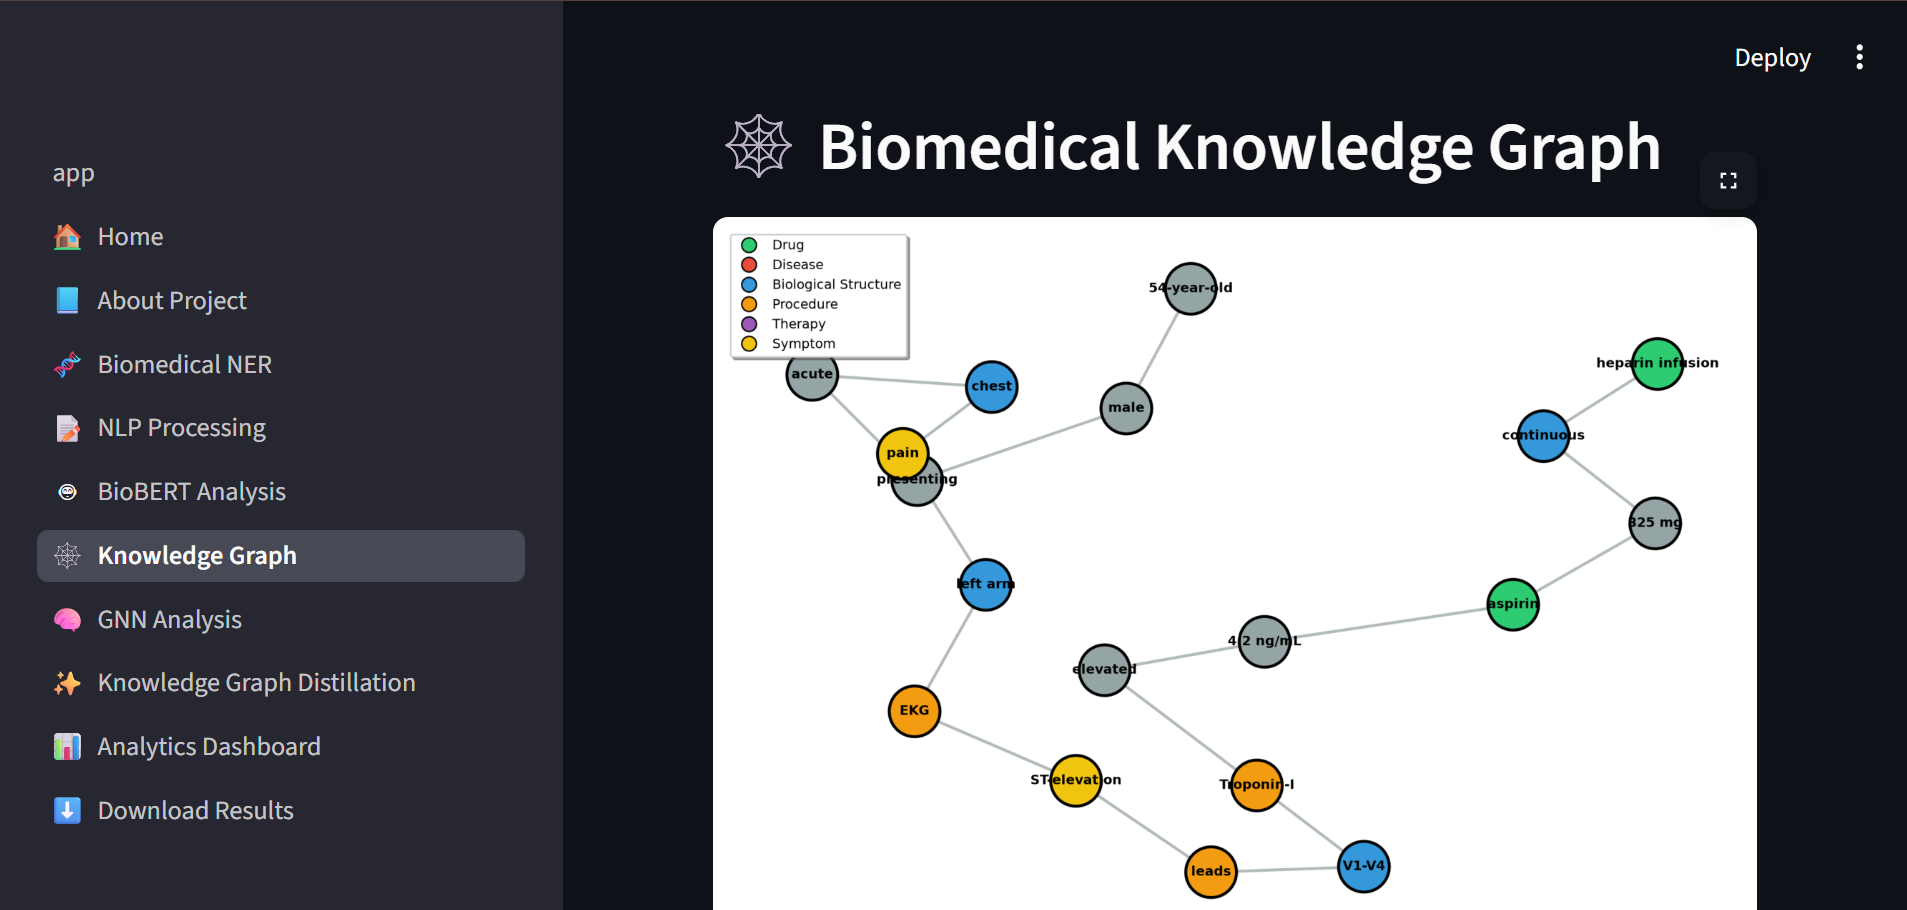
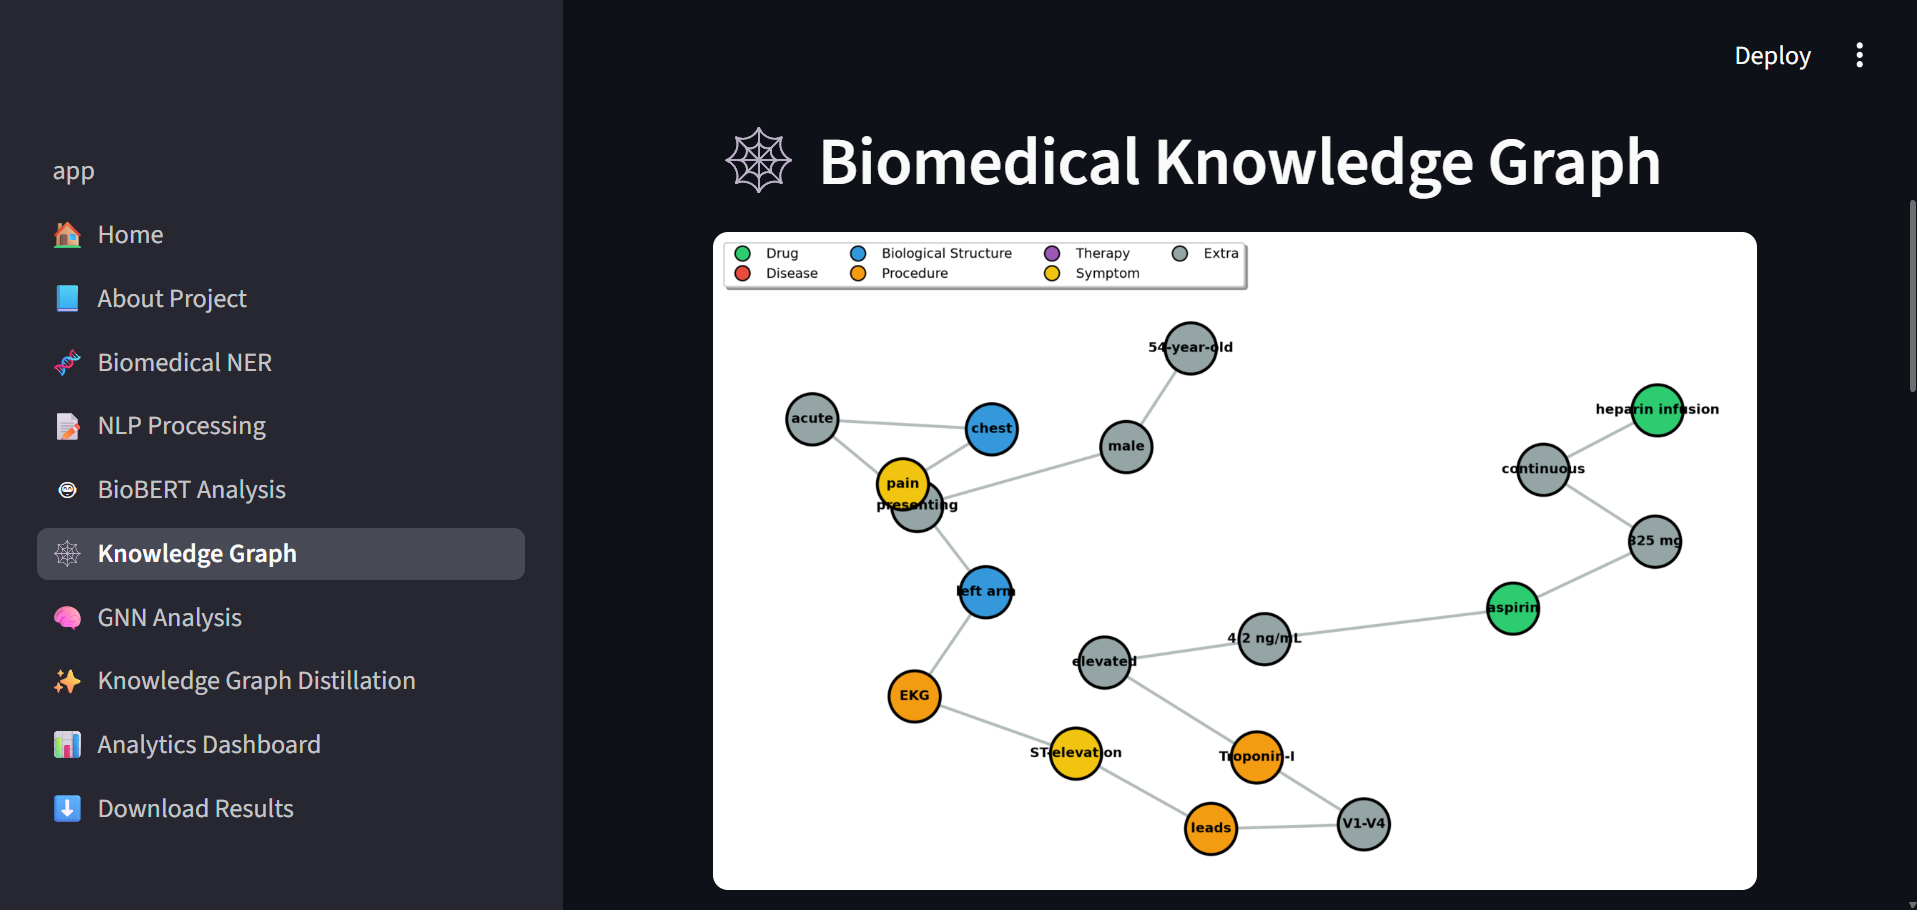
Fix knowledge graph entity types and visualization

diff --git a/pages/08_✨_Knowledge_Graph_Distillation.py b/pages/08_✨_Knowledge_Graph_Distillation.py
@@ -134,6 +134,15 @@ st.divider()
 # Graph Color Mapping
 # --------------------------------------------------------
 
+STANDARD_ENTITY_TYPES = {
+    "DRUG",
+    "DISEASE",
+    "BIOLOGICAL_STRUCTURE",
+    "PROCEDURE",
+    "THERAPY",
+    "SYMPTOM"
+}
+
 COLOR_MAP = {
 
     "DRUG": "#2ECC71",
@@ -141,17 +150,26 @@ COLOR_MAP = {
     "BIOLOGICAL_STRUCTURE": "#3498DB",
     "PROCEDURE": "#F39C12",
     "THERAPY": "#9B59B6",
-    "SYMPTOM": "#F1C40F"
+    "SYMPTOM": "#F1C40F",
+    "EXTRA": "#95A5A6"
 
 }
 
-DEFAULT_COLOR = "#95A5A6"
+
+def get_display_entity_type(entity_type):
+    """
+    Map non-standard entity types to EXTRA for graph visualization.
+    """
+    if entity_type in STANDARD_ENTITY_TYPES:
+        return entity_type
+
+    return "EXTRA"
 
 # --------------------------------------------------------
 # Shared Graph Drawing Function
 # --------------------------------------------------------
 
-def draw_graph(graph, title):
+def draw_graph(graph):
 
     fig, ax = plt.subplots(figsize=(8.5, 6.5))
 
@@ -171,11 +189,10 @@ def draw_graph(graph, title):
             ""
         )
 
+        display_type = get_display_entity_type(entity_type)
+
         node_colors.append(
-            COLOR_MAP.get(
-                entity_type,
-                DEFAULT_COLOR
-            )
+            COLOR_MAP[display_type]
         )
 
     nx.draw_networkx_nodes(
@@ -241,6 +258,12 @@ def draw_graph(graph, title):
                label='Symptom',
                markerfacecolor=COLOR_MAP["SYMPTOM"],
                markeredgecolor='black',
+               markersize=8),
+
+        Line2D([0],[0], marker='o', color='w',
+               label='Extra',
+               markerfacecolor=COLOR_MAP["EXTRA"],
+               markeredgecolor='black',
                markersize=8)
 
     ]
@@ -248,22 +271,23 @@ def draw_graph(graph, title):
     ax.legend(
         handles=legend_elements,
         fontsize=8,
-        loc="upper left",
+        loc="lower left",
+        bbox_to_anchor=(0, 1.02),
         frameon=True,
         fancybox=True,
-        shadow=True
-    )
-
-    ax.set_title(
-        title,
-        fontsize=15,
-        fontweight="bold",
-        pad=12
+        shadow=True,
+        ncol=4,
+        borderaxespad=0
     )
 
     ax.set_axis_off()
 
-    plt.tight_layout()
+    plt.subplots_adjust(
+        top=0.80,
+        left=0.02,
+        right=0.98,
+        bottom=0.02
+    )
 
     return fig
 
@@ -280,10 +304,7 @@ with left:
     st.subheader("📘 Original Knowledge Graph")
 
     st.pyplot(
-        draw_graph(
-            graph,
-            "Original Graph"
-        )
+        draw_graph(graph)
     )
 
     col1, col2 = st.columns(2)
@@ -300,10 +321,7 @@ with right:
     st.subheader("✨ Distilled Knowledge Graph")
 
     st.pyplot(
-        draw_graph(
-            distilled_graph,
-            "Distilled Graph"
-        )
+        draw_graph(distilled_graph)
     )
 
     col3, col4 = st.columns(2)
@@ -358,9 +376,8 @@ for node in distilled_graph.nodes(data=True):
 
         "Biomedical Entity": node[0],
 
-        "Entity Type": node[1].get(
-            "entity_type",
-            "-"
+        "Entity Type": get_display_entity_type(
+            node[1].get("entity_type", "")
         ),
 
         "Confidence": node[1].get(
@@ -444,9 +461,8 @@ for node, attrs in graph.nodes(data=True):
 
     if node == top_entity:
 
-        entity_type = attrs.get(
-            "entity_type",
-            "-"
+        entity_type = get_display_entity_type(
+            attrs.get("entity_type", "")
         )
 
         confidence = attrs.get(

diff --git a/pages/06_🕸_Knowledge_Graph.py b/pages/06_🕸_Knowledge_Graph.py
@@ -44,6 +44,15 @@ graph = build_graph(entities)
 # Color Mapping
 # -----------------------------------------
 
+STANDARD_ENTITY_TYPES = {
+    "DRUG",
+    "DISEASE",
+    "BIOLOGICAL_STRUCTURE",
+    "PROCEDURE",
+    "THERAPY",
+    "SYMPTOM"
+}
+
 COLOR_MAP = {
 
     "DRUG": "#2ECC71",
@@ -51,12 +60,12 @@ COLOR_MAP = {
     "BIOLOGICAL_STRUCTURE": "#3498DB",
     "PROCEDURE": "#F39C12",
     "THERAPY": "#9B59B6",
-    "SYMPTOM": "#F1C40F"
+    "SYMPTOM": "#F1C40F",
+    "EXTRA": "#95A5A6"
 
 }
 
-DEFAULT_COLOR = "#95A5A6"
-
+display_entity_types = {}
 node_colors = []
 
 for node in graph.nodes():
@@ -66,12 +75,13 @@ for node in graph.nodes():
         ""
     )
 
-    node_colors.append(
-        COLOR_MAP.get(
-            entity_type,
-            DEFAULT_COLOR
-        )
-    )
+    if entity_type in STANDARD_ENTITY_TYPES:
+        display_type = entity_type
+    else:
+        display_type = "EXTRA"
+
+    display_entity_types[node] = display_type
+    node_colors.append(COLOR_MAP[display_type])
 
 # -----------------------------------------
 # Graph Summary
@@ -202,22 +212,39 @@ legend_elements = [
         markerfacecolor=COLOR_MAP["SYMPTOM"],
         markeredgecolor='black',
         markersize=10
-    )
+    ),
 
+    Line2D(
+        [0], [0],
+        marker='o',
+        color='w',
+        label='Extra',
+        markerfacecolor=COLOR_MAP["EXTRA"],
+        markeredgecolor='black',
+        markersize=10
+    )
 ]
 
 ax.legend(
     handles=legend_elements,
-    loc="upper left",
+    loc="lower left",
+    bbox_to_anchor=(0, 1.02),
     fontsize=9,
     frameon=True,
     fancybox=True,
-    shadow=True
+    shadow=True,
+    ncol=4,
+    borderaxespad=0
 )
 
 ax.set_axis_off()
 
-plt.tight_layout()
+plt.subplots_adjust(
+    top=0.80,
+    left=0.02,
+    right=0.98,
+    bottom=0.02
+)
 
 st.pyplot(fig)
 
@@ -236,7 +263,7 @@ for node, attrs in graph.nodes(data=True):
     nodes.append({
 
         "Entity": node,
-        "Type": attrs.get("entity_type", ""),
+        "Type": display_entity_types.get(node, "EXTRA"),
         "Confidence": attrs.get("confidence", "")
 
     })

diff --git a/nlp/entity_postprocess.py b/nlp/entity_postprocess.py
@@ -10,7 +10,7 @@ LABEL_MAPPING = {
     "THERAPEUTIC_PROCEDURE": "THERAPY",
     "SIGN_SYMPTOM": "SYMPTOM",
     "BIOLOGICAL_STRUCTURE": "BIOLOGICAL_STRUCTURE",
-    "DETAILED_DESCRIPTION": "BIOLOGICAL_STRUCTURE",
+    "DETAILED_DESCRIPTION": "EXTRA",
 
     # -----------------------------
     # Previous BioBERT Labels
